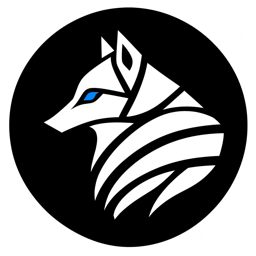
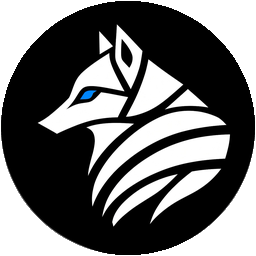
Cut the white halo off the Rún mark on the door

Changed region(s): [[0.2188, 0.0938, 0.9062, 0.9062], [0.0, 0.0, 1.0, 1.0], [0.1562, 0.4375, 0.2812, 0.5312]]

diff --git a/index.html b/index.html
@@ -374,7 +374,7 @@
       <p class="house-line">
         <img
           class="house-mark"
-          src="/brand/run-mark.png?v=1"
+          src="/brand/run-mark.png?v=2"
           alt=""
           width="36"
           height="36"
